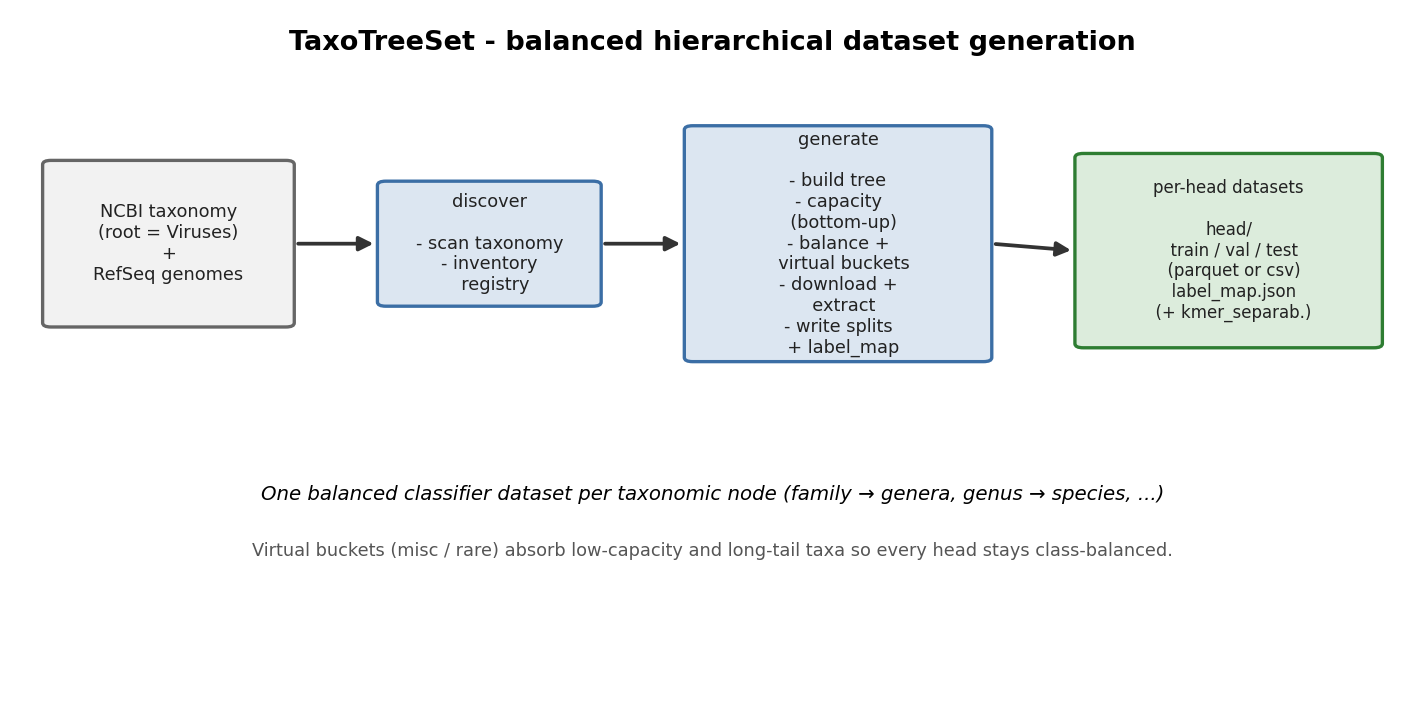
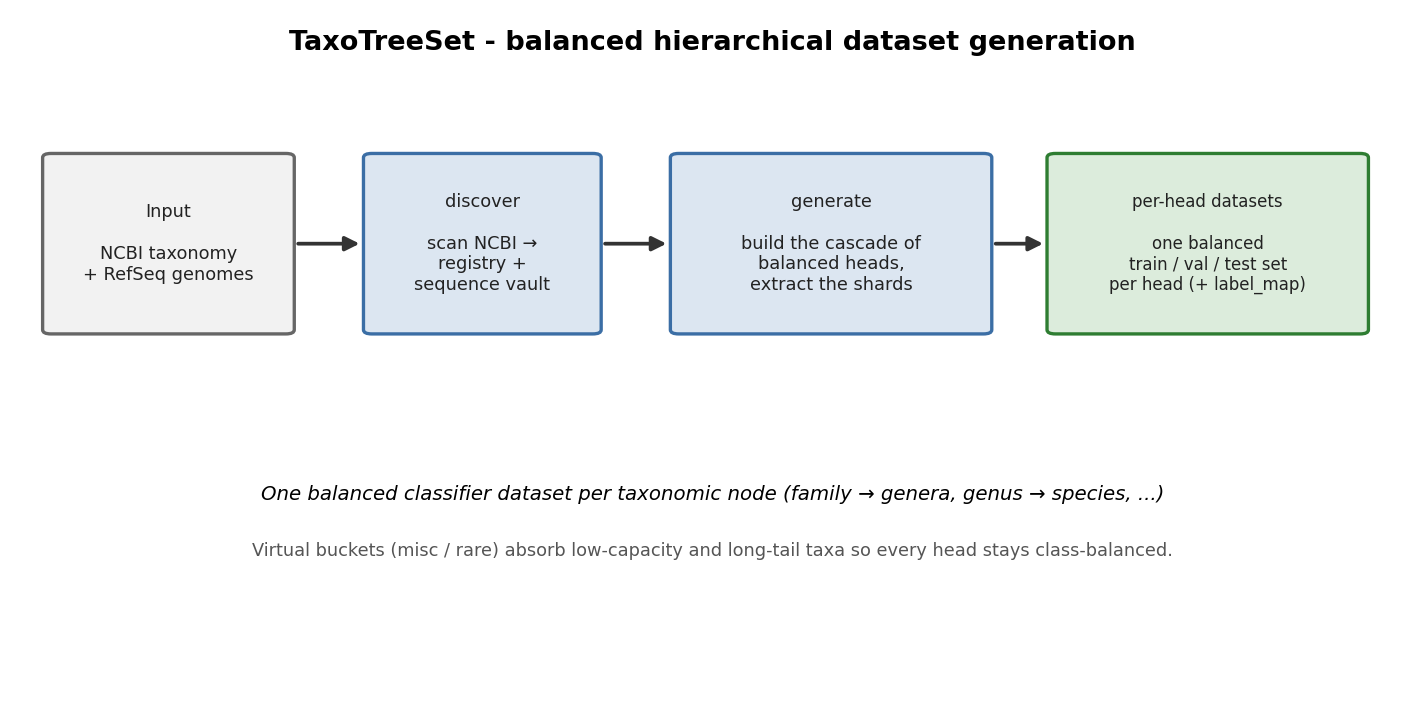
docs: make pipeline figure arrows horizontal and clarify box text
Align the four boxes on a shared centre so all three arrows are horizontal,
drop the misleading "(root = Viruses)" from the input box, soften the
"+ RefSeq genomes" wording, and raise the discover/generate boxes to a
high level (their internal steps live in the four-stages figure).

diff --git a/docs/make_figures.py b/docs/make_figures.py
@@ -63,24 +63,23 @@ def fig_taxotreeset() -> None:
     ax.text(50, 95, "TaxoTreeSet - balanced hierarchical dataset generation",
             ha="center", fontsize=13, weight="bold")
 
-    src = _box(ax, 2, 55, 18, 24,
-               "NCBI taxonomy\n(root = Viruses)\n+\nRefSeq genomes",
-               ec=GREY, fontsize=8.5, fc="#f2f2f2")
-    disc = _box(ax, 26, 58, 16, 18,
-                "discover\n\n- scan taxonomy\n- inventory\n  registry",
-                ec=BLUE, fontsize=8.5)
-    gen = _box(ax, 48, 50, 22, 34,
-               "generate\n\n- build tree\n- capacity\n  (bottom-up)\n"
-               "- balance +\n  virtual buckets\n- download +\n  extract\n"
-               "- write splits\n  + label_map", ec=BLUE, fontsize=8.5)
-    out = _box(ax, 76, 52, 22, 28,
-               "per-head datasets\n\nhead/\n  train / val / test\n  "
-               "(parquet or csv)\n  label_map.json\n  (+ kmer_separab.)",
-               ec=GREEN, fontsize=8)
+    cy, by, bh = 67, 54, 26          # shared centre so every arrow is horizontal
+    _box(ax, 2, by, 18, bh,
+         "Input\n\nNCBI taxonomy\n+ RefSeq genomes",
+         ec=GREY, fontsize=8.5, fc="#f2f2f2")
+    _box(ax, 25, by, 17, bh,
+         "discover\n\nscan NCBI →\nregistry +\nsequence vault",
+         ec=BLUE, fontsize=8.5)
+    _box(ax, 47, by, 23, bh,
+         "generate\n\nbuild the cascade of\nbalanced heads,\nextract the shards",
+         ec=BLUE, fontsize=8.5)
+    _box(ax, 74, by, 23, bh,
+         "per-head datasets\n\none balanced\ntrain / val / test set\n"
+         "per head (+ label_map)", ec=GREEN, fontsize=8)
 
-    _arrow(ax, (20, 67), (26, 67))
-    _arrow(ax, (42, 67), (48, 67))
-    _arrow(ax, (70, 67), (76, 66))
+    _arrow(ax, (20, cy), (25, cy))
+    _arrow(ax, (42, cy), (47, cy))
+    _arrow(ax, (70, cy), (74, cy))
 
     ax.text(50, 30, "One balanced classifier dataset per taxonomic node "
             "(family → genera, genus → species, ...)",